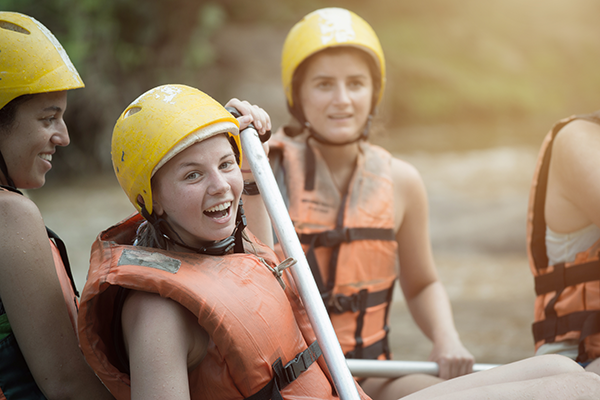
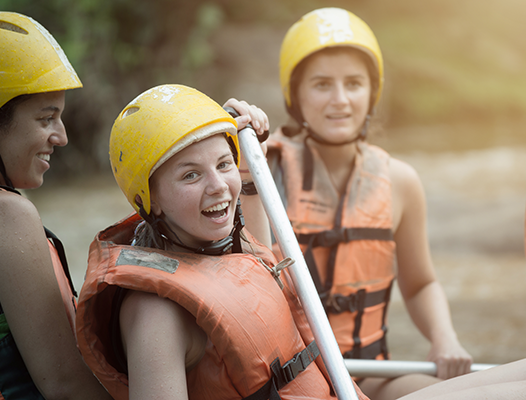
fixes yay!

diff --git a/wwr/styles/rafting.css b/wwr/styles/rafting.css
@@ -16,48 +16,105 @@
     --nav-hover-background-color: #F4A937;
 }
 
+h1, h2, h3, h4, h5, h6 {
+    font-family: var(--heading-font);
+    color: var(--primary-color);
+}
+
+p {
+    padding: 25px;
+}
+
+nav {
+    /*background-color: var(--nav-background-color);*/
+    font-size: 1.2rem;
+    display: flex;
+}
+
+nav a {
+    display: block;
+    color: var(--nav-link-color);
+    text-decoration: none;
+    padding: 1rem;
+}
+
+nav a:link, nav a:visited {
+    color: var(--nav-link-color);
+}
+
+nav a:hover {
+    color: var(--nav-hover-link-color);
+    background-color: var(--nav-hover-background-color);
+}
+
 body {
     font-family: var(--paragraph-font);
     max-width: 960px;
     padding: 20px;
 }
 
-.title {
-    text-align: center;
+a:link {
+    text-decoration: none;
 }
+
+.hero {
+    position: relative;
+    overflow: hidden
+}
+
 .hero img {
-    display: block;
     width: 100%;
     height: auto;
-    position: relative;
+    display: block;
 }
 
-h1 {
+.hero h1 {
     position: absolute;
+    top: 10%;
+    left: 0;
+    right: 0;
+    color: whitesmoke;
+    z-index: 3;
+    background-color: rgba(66, 83, 95, 0.5); /* Semi-transparent white background */
+    padding: 10px 20px;
+    text-align: center;
 }
 
-article {
+.title {
     position: absolute;
-    background-color: #42535F;
+    top: 20%;
+}
+.hero article {
+    position: absolute;
+    background-color: rgba(66, 83, 95, 0.5);
+    padding: 20px;
+    top: 45%;
+    left: 5%;
+    right: 5%;
+    width: 85%;
+    color: whitesmoke;
+    z-index: 2;
 }
 
-article img {
+.hero article img {
     float: right;
-    width: 50px;
+    width: 200px;
     height: auto;
-    top: 20px;
-    left: 130px;
-    opacity: 100%;
+    display: block;
+}
+
+.hero article p {
+    color: #fff;
 }
 
 footer {
-    padding: 25px 50px;
-    margin-top: 200px;
-    display: flex;
-    justify-content: space-around;
+    padding: 5px 5px;
+    margin-top: 5px;
     align-items: center;   
 }
 
-footer .sociallinks img {
-    padding-top: 15px;
+.sociallinks {
+    margin-top: 5px;
+    display: flex;
+    align-items: center;
 }

diff --git a/wwr/about.html b/wwr/about.html
@@ -20,8 +20,8 @@
         </header>
         <main>
             <div class="hero">
+                <img src="images/background.jpg" alt="background image" width="100%">
                 <h1>Provo River Rafting</h1>
-                <img src="images/background.jpg" alt="background image">
                 <article>
                     <img src="images/happy-client.png" alt="happy client" width="100">
                     <p>Lorem ipsum dolor sit, amet consectetur adipisicing elit. Enim, quam.</p>
@@ -47,10 +47,10 @@
                     <img src="images/facebook.png" alt="Facebook" width="50">
                 </a>
                 <a href="https://twitter.com" target="_blank">
-                    <img src="images/x.png" alt="X" width="90">
+                    <img src="images/x.png" alt="X" width="50">
                 </a>
                 <a href="https://instagram.com" target="_blank">
-                    <img src="images/instagram.png" alt="Instagram" width="60">
+                    <img src="images/instagram.png" alt="Instagram" width="50">
                 </a>
             </nav>
         </footer>
